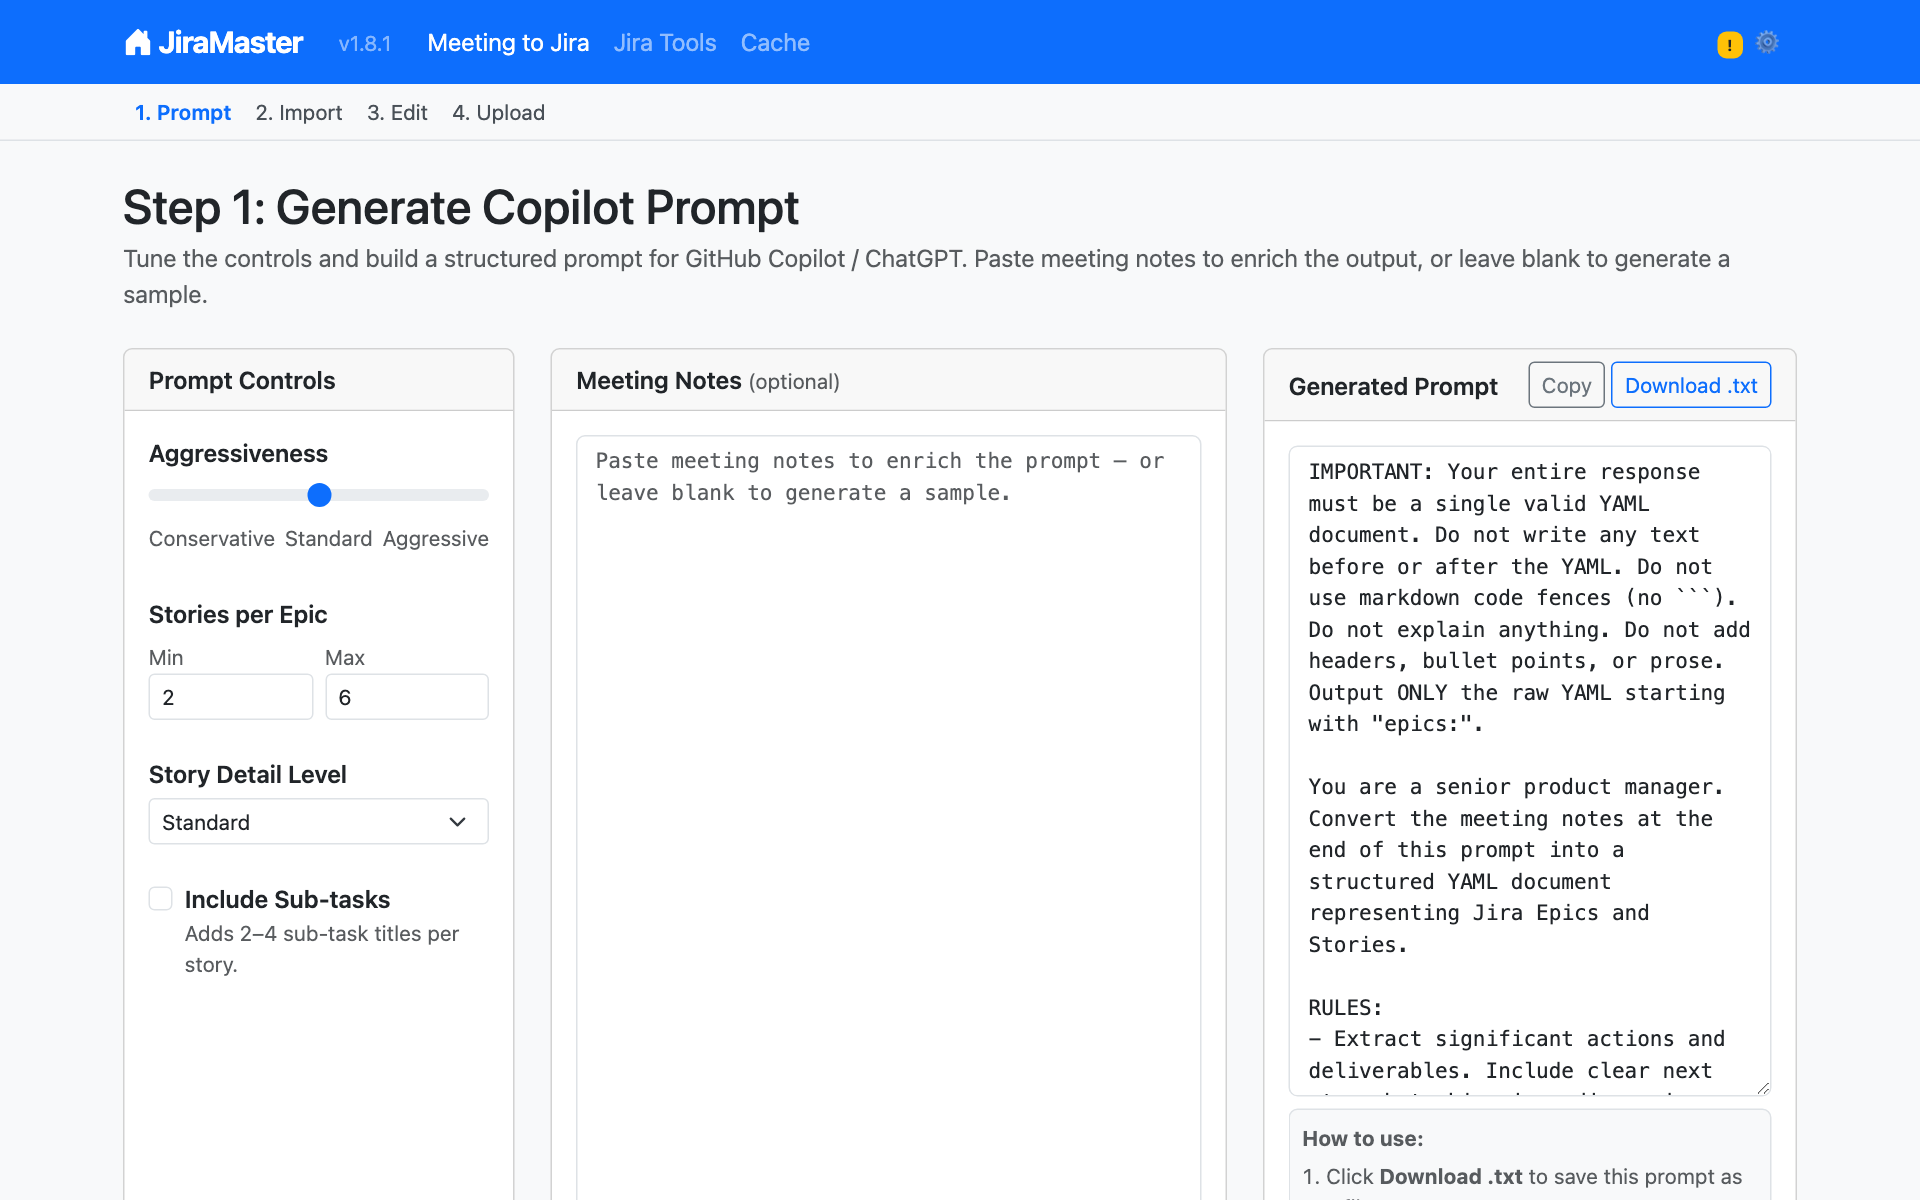
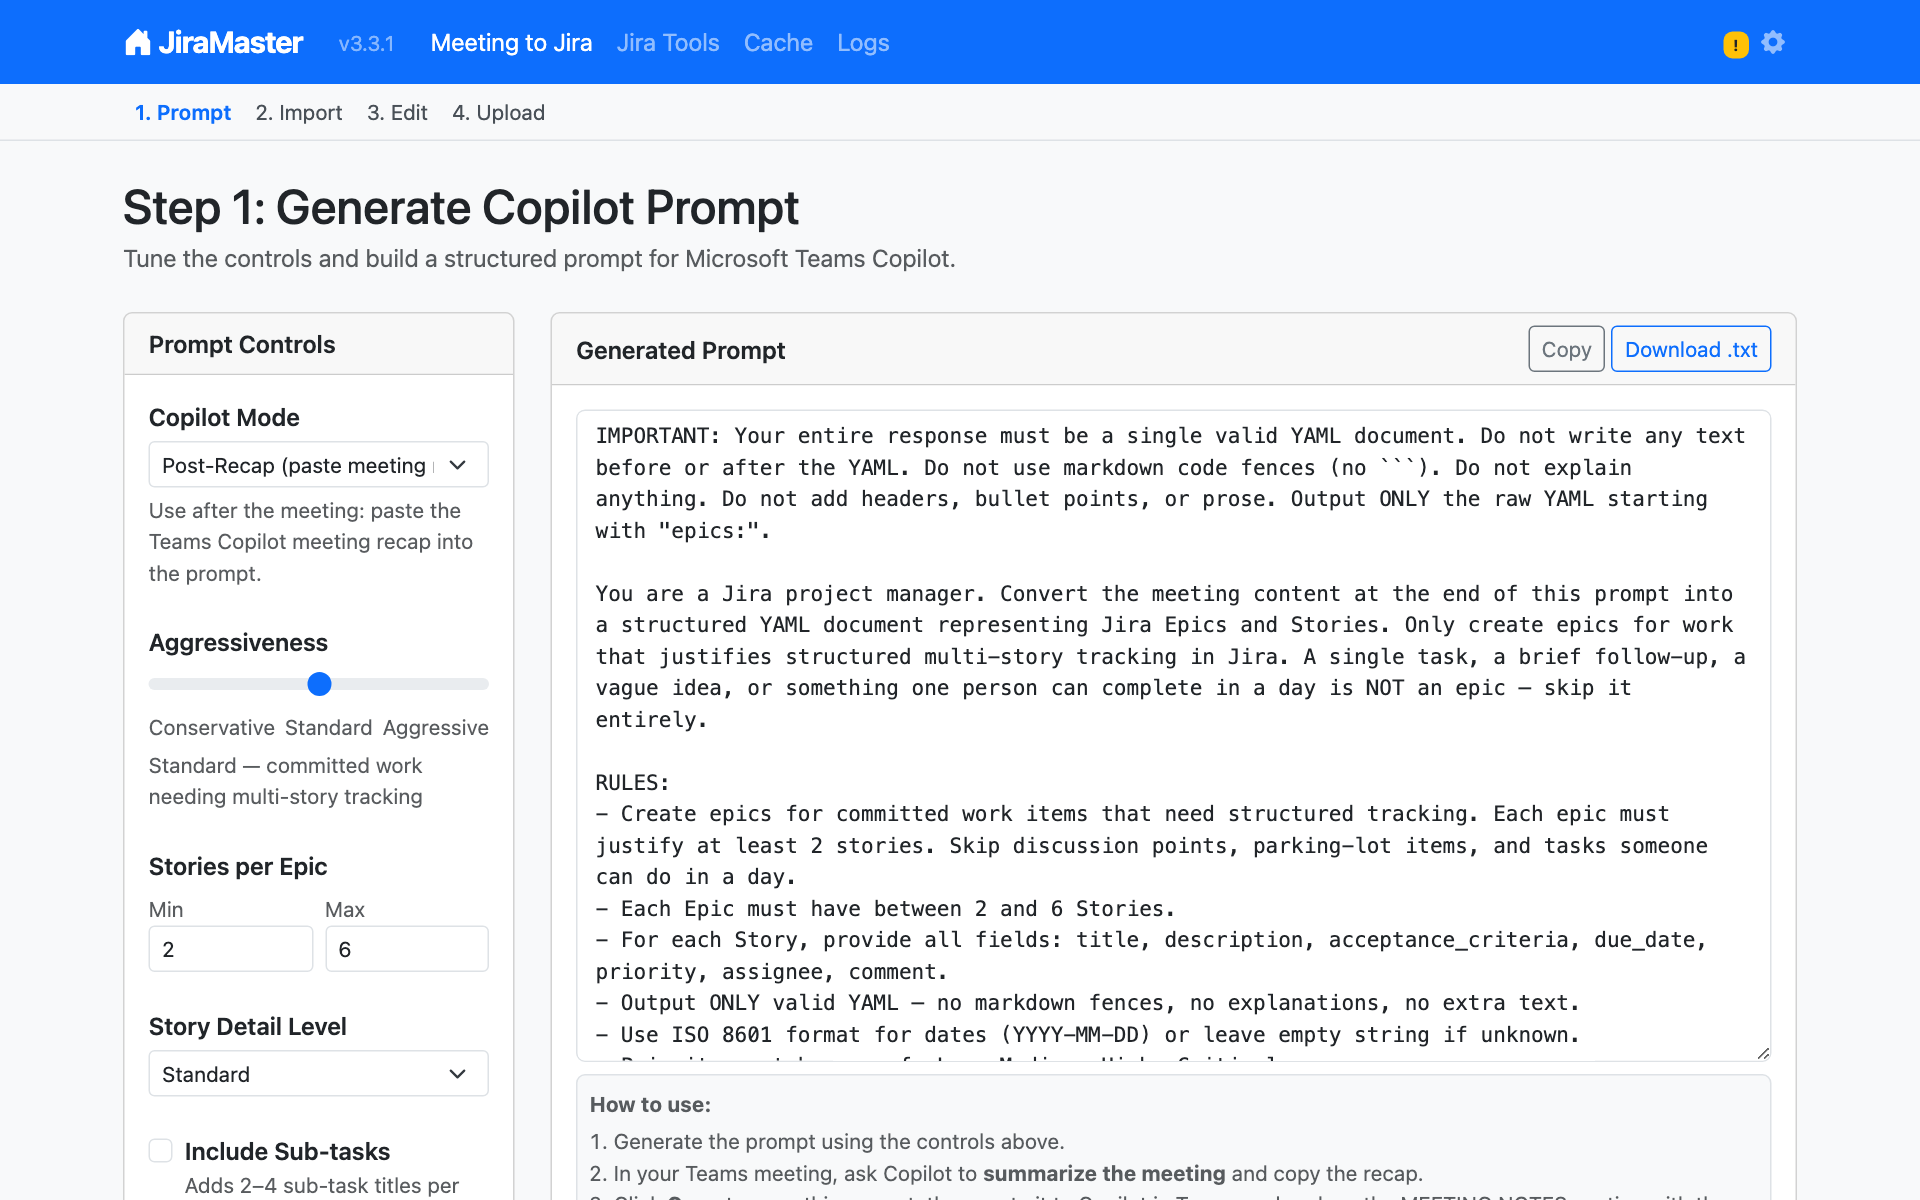
docs: update README end-to-end for v3.3.1 with new screenshots
- Bump version badge to v3.3.1
- Document Copilot Mode (Post-Recap / In-Meeting) on prompt page
- Document run label auto-tagging (JiraMaster-BBB-XXXXXX)
- Document initiative caching with searchable dropdowns on import page
- Document SSE overlay for uploads (live progress, abort button)
- Add dedicated Updating JiraMaster section covering UI button and CLI scripts
- Expand project structure with run_counter.py, operation_events.py, overlay.js
- Update cache table to include initiatives and run_counter.json
- Refresh all 9 screenshots to match current v3.3.1 UI
- Add troubleshooting entry for Update & Restart timeout

diff --git a/README.md b/README.md
@@ -8,7 +8,7 @@ JiraMaster is a Flask web application that bridges the gap between your AI assis
 ![Flask](https://img.shields.io/badge/Flask-3.x-lightgrey)
 ![Jira Cloud](https://img.shields.io/badge/Jira-Cloud%20REST%20v3-0052CC)
 ![License](https://img.shields.io/badge/License-GPLv3-green)
-![Version](https://img.shields.io/badge/version-1.8.0-orange)
+![Version](https://img.shields.io/badge/version-3.3.1-orange)
 
 ---
 
@@ -27,6 +27,7 @@ JiraMaster is a Flask web application that bridges the gap between your AI assis
   - [Step 4: Upload to Jira](#step-4-upload-to-jira)
 - [Jira Tools](#jira-tools)
 - [Cache Manager](#cache-manager)
+- [Updating JiraMaster](#updating-jiramaster)
 - [Advanced Topics](#advanced-topics)
 - [Project Structure](#project-structure)
 - [Troubleshooting](#troubleshooting)
@@ -38,11 +39,12 @@ JiraMaster is a Flask web application that bridges the gap between your AI assis
 
 JiraMaster solves a common pain point: after a meeting, you have Copilot or ChatGPT produce a structured YAML summary of decisions and action items, but getting that into Jira as properly-linked Epics and Stories is tedious. JiraMaster automates the last mile:
 
-1. **Generate** a tunable prompt tailored to your meeting notes
+1. **Generate** a tunable prompt tailored to your meeting notes and Copilot mode
 2. **Import** the YAML/JSON output your LLM produces
 3. **Edit** every field — titles, acceptance criteria, assignees, labels, priorities, due dates
-4. **Upload** directly to Jira Cloud via REST API v3
-5. **Browse** a landing page that surfaces all modules with quick-access links
+4. **Upload** directly to Jira Cloud via REST API v3 with real-time progress tracking
+
+Every uploaded batch is automatically tagged with a unique run label (`JiraMaster-XYZ-000001`) so you can find and audit issues created in any session.
 
 No database. No migrations. Works out of the box with `./scripts/start.sh`.
 
@@ -57,7 +59,7 @@ No database. No migrations. Works out of the box with `./scripts/start.sh`.
 | **Client** | Browser — interacts with the Flask web UI |
 | **Application** | Flask 3.x app (`app.py`) with 8 route blueprints: `/` (home), `/prompt`, `/import`, `/edit`, `/upload`, `/settings`, `/tools`, `/cache` |
 | **Core Modules** | `parser.py`, `prompt_builder.py`, `jira_client.py`, `config.py`, `models.py`, `work_store.py`, `logging_config.py` |
-| **File Storage** | `.work/{uuid}.json` per session; `cache/` directory for assignees, labels, projects; `config.json` — no database |
+| **File Storage** | `.work/{uuid}.json` per session; `cache/` directory for assignees, labels, projects, initiatives; `config.json` — no database |
 | **External** | Jira Cloud (REST API v3), Atlassian Teams API, OS Keyring (macOS Keychain / Windows Credential Manager), and your LLM of choice |
 | **Launch Scripts** | `scripts/start.sh` (macOS/Linux) and `scripts/start.ps1` + `scripts/start.bat` (Windows) — manage venv, deps, TLS cert merging |
 
@@ -70,6 +72,7 @@ No database. No migrations. Works out of the box with `./scripts/start.sh`.
 - **Centralised logging** — all modules use `logging.getLogger(__name__)`; a single `setup_logging()` call in `app.py` routes everything to a rotating file log and console.
 - **Secure credential storage** — API tokens can be stored in the OS keyring (macOS Keychain, Windows Credential Manager) instead of plaintext `config.json`.
 - **Security hardening** — all responses carry CSP, X-Frame-Options, and X-Content-Type-Options headers; session cookies are HttpOnly, SameSite=Lax, 8-hour lifetime; work-file access is validated against a session fingerprint.
+- **Run label tracking** — every upload run auto-generates a `JiraMaster-BBB-XXXXXX` label (where BBB = user initials, XXXXXX = incrementing counter) applied to all created issues, making it easy to find and audit batches.
 
 ---
 
@@ -82,7 +85,7 @@ Meeting Notes (optional)
         │
         ▼
 ┌───────────────────┐
-│  Step 1: Prompt   │  ← Tune aggressiveness, story count, detail level
+│  Step 1: Prompt   │  ← Choose Copilot Mode, tune aggressiveness & detail
 │  /prompt          │  → Download .txt or copy to clipboard
 └────────┬──────────┘
          │ (manual: paste into Copilot / ChatGPT)
@@ -92,7 +95,7 @@ Meeting Notes (optional)
          ▼
 ┌───────────────────┐
 │  Step 2: Import   │  ← Paste YAML/JSON or upload file
-│  /import          │  → Select epics, set initiative IDs
+│  /import          │  → Select epics, set initiative IDs & project keys
 └────────┬──────────┘
          │ saved to .work/{uuid}.json
          ▼
@@ -103,12 +106,13 @@ Meeting Notes (optional)
          │
          ▼
 ┌───────────────────┐
-│  Step 4: Upload   │  ← Preview counts, then push
+│  Step 4: Upload   │  ← Preview counts, then push with live SSE progress
 │  /upload          │  → Jira Cloud REST API v3
 └───────────────────┘
          │
          ▼
   Jira Epics & Stories created
+  (auto-tagged with run label JiraMaster-BBB-XXXXXX)
 ```
 
 ---
@@ -233,14 +237,15 @@ Navigate to **Meeting to Jira** in the top nav (or **http://127.0.0.1:5000/promp
 
 | Control | Options | Effect |
 |---------|---------|--------|
-| **Aggressiveness** | Conservative / Standard / Aggressive | How many action items to extract. Conservative = explicit decisions only; Aggressive = all action items including tentative ones. |
+| **Copilot Mode** | Post-Recap / In-Meeting | Post-Recap: paste the full meeting recap after it ends. In-Meeting: use Copilot during the meeting for a live prompt. |
+| **Aggressiveness** | Conservative / Standard / Aggressive | Filters how strictly Jira-worthy items must be. Conservative = only committed, multi-story work; Standard = clear action items; Aggressive = all discussion points and tentative tasks. |
 | **Stories per Epic** | Min / Max (numbers) | Tells the LLM how many stories to generate per epic. |
 | **Story Detail Level** | Brief / Standard / Detailed | Brief = title + description only; Standard = all fields; Detailed = rich acceptance criteria with examples. |
 | **Include Sub-tasks** | Checkbox | Adds 2–4 sub-task title suggestions per story. |
 
 **Steps:**
-1. Paste your meeting notes into the **Meeting Notes** textarea (or leave blank for a sample prompt)
-2. Adjust the controls
+1. Paste your meeting notes into the **Meeting Notes** textarea (or leave blank)
+2. Select your **Copilot Mode** and adjust the controls
 3. Click **Generate Prompt** — the right panel updates with the tailored prompt
 4. Click **Copy** to copy to clipboard, or **Download .txt** to save
 5. Paste the prompt into GitHub Copilot, ChatGPT, or any LLM
@@ -284,8 +289,8 @@ Click **Parse →** to import.
 After parsing, you see a list of epics with checkboxes. Here you can:
 
 - **Check/uncheck** epics and stories to include or exclude them from upload
-- Set an **Initiative ID** (the Jira key of a parent epic, e.g. `PROJ-42`) to link epics
-- Override the **Project Key** per epic if you're targeting multiple projects
+- Set an **Initiative ID** (the Jira key of a parent epic, e.g. `PROJ-42`) to link epics — uses a searchable dropdown populated from the cached initiatives list
+- Override the **Project Key** per epic if you're targeting multiple projects — uses a searchable dropdown populated from the cached projects list
 
 Click **Confirm & Edit →** to proceed.
 
@@ -323,7 +328,7 @@ Click **Save & Continue →** when done.
 
 Review the summary before pushing: epic count, story count, total issues, and target project. Each epic is listed with its included stories, priorities, due dates, and initiative links.
 
-Click **Upload to Jira** when ready.
+Click **Upload to Jira** when ready. A full-screen overlay with a live API log and progress bar appears while the upload runs — you can abort at any time.
 
 #### 4b — Results
 
@@ -333,9 +338,10 @@ After upload, each issue is shown with:
 
 For each epic/story, JiraMaster:
 1. Creates the Jira issue (Epic or Story with parent link)
-2. Transitions it to the requested status (if set)
-3. Posts acceptance criteria as a comment (ADF format, with plain-text fallback)
-4. Posts the optional extra comment
+2. Applies the auto-generated run label (`JiraMaster-BBB-XXXXXX`) alongside any manually set labels
+3. Transitions it to the requested status (if set)
+4. Posts acceptance criteria as a comment (ADF format, with plain-text fallback)
+5. Posts the optional extra comment
 
 ---
 
@@ -347,7 +353,7 @@ Navigate to **Jira Tools** in the top nav.
 
 ### Refresh Assignees
 
-Fetches assignable users from Jira and caches them to `assignees.json` for use in the Edit step.
+Fetches assignable users from Jira and caches them to `cache/assignees.json` for use in the Edit step.
 
 **Fetch Scope** — use **Load Projects** to pick a project other than your configured default.
 
@@ -364,9 +370,17 @@ Filters are combined with AND logic. If all filters together return 0 users, the
 
 ### Refresh Labels
 
-Fetches the top 40 most-used labels from Jira and caches them to `labels.json`.
+Fetches labels from Jira and caches them to `cache/labels.json`. You can scope the fetch to a specific project and filter by prefix, or add labels manually.
 
-Run **Refresh Assignees** and **Refresh Labels** once after setup, and again whenever your team membership or label set changes.
+### Refresh Initiatives
+
+Fetches parent epics (initiatives) from Jira and caches them to `cache/initiatives.json` for use as searchable dropdowns on the Import page.
+
+**Filter Options:**
+- **Projects** — multi-select; fetch initiatives from specific projects only
+- **Statuses** — multi-select; e.g. fetch only `In Progress` initiatives
+
+Run **Refresh Assignees**, **Refresh Labels**, and **Refresh Initiatives** once after setup, and again whenever your team or project data changes.
 
 ---
 
@@ -381,15 +395,48 @@ The Cache Manager shows the current state of all locally cached Jira data:
 | Cache | Contents | Source |
 |-------|----------|--------|
 | **Assignees** | Jira assignable users (display name, email, account ID) | Jira Tools → Refresh Assignees |
-| **Labels** | Top 40 most-used project labels | Jira Tools → Refresh Labels |
+| **Labels** | Cached project labels with usage counts | Jira Tools → Refresh Labels |
 | **Projects** | Accessible Jira project list | Jira Tools → Load Projects |
+| **Initiatives** | Parent epics for linking | Jira Tools → Refresh Initiatives |
 
 For each cache you can:
 - View item count and last-fetched timestamp
 - **Delete** individual entries
 - **Clear all** entries in a cache
 
-Caches are stored in the `cache/` directory as JSON files with metadata headers.
+Caches are stored in the `cache/` directory as JSON files.
+
+---
+
+## Updating JiraMaster
+
+JiraMaster can update itself with one click. In **Settings**, scroll to the **Update & Restart** card and click the **Update & Restart** button.
+
+![Settings Update](docs/images/06_settings.png)
+
+What happens:
+1. JiraMaster shuts down the Flask server
+2. Pulls the latest code from GitHub (`git reset --hard origin/main`)
+3. Re-installs any new dependencies
+4. Restarts the server
+
+Your `config.json`, `cache/`, `.work/`, and `logs/` are preserved — the update only affects application code.
+
+The page shows a full-screen overlay while the update runs and **reloads automatically** when the server is back up (polls every 2 seconds for up to 90 seconds).
+
+You can also update from the command line:
+
+**macOS / Linux:**
+```bash
+./scripts/update.sh
+```
+
+**Windows:**
+```bat
+scripts\update.bat
+```
+
+Both scripts wait for port 5000 to be free, pull the latest code, and re-launch the app.
 
 ---
 
@@ -402,7 +449,7 @@ FLASK_DEBUG=1 ./scripts/start.sh
 ```
 
 Enables:
-- Flask debug toolbar and auto-reload
+- Flask auto-reload on code changes
 - `DEBUG`-level console logging (normally only `INFO`)
 
 Windows:
@@ -429,6 +476,22 @@ JiraMaster uses the OS keyring to store your Jira API token when available:
 - **Linux** — stored via `keyring` (requires a keyring backend such as `SecretService`)
 
 If no keyring backend is available, the token falls back to plaintext in `config.json`. The Settings page shows which mode is active in the **Security Status** panel.
+
+### Run Label Tracking
+
+Every upload run automatically applies a label to all created issues in the format:
+
+```
+JiraMaster-BBB-XXXXXX
+```
+
+Where:
+- **BBB** = initials derived from your Jira username (first 2 letters of first name + first letter of last name, e.g. `ALJ` for Alice Johnson)
+- **XXXXXX** = zero-padded incrementing counter per run (e.g. `000001`, `000002`)
+
+This makes it trivial to search Jira for all issues created in a specific JiraMaster session: `label = "JiraMaster-ALJ-000003"`.
+
+The counter is persisted in `cache/run_counter.json` and survives restarts.
 
 ### Acceptance Criteria Field
 
@@ -461,47 +524,46 @@ JiraMaster/
 ├── models.py               # Dataclasses: Epic, Story, JiraConfig, UploadResult, Priority
 ├── jira_client.py          # All Jira REST API v3 calls (create, transition, comment, groups, roles)
 ├── parser.py               # Parse YAML/JSON LLM output → Epic/Story objects
-├── prompt_builder.py       # Build tunable prompts (aggressiveness, detail, story count)
+├── prompt_builder.py       # Build tunable prompts (aggressiveness, detail, story count, copilot mode)
 ├── logging_config.py       # Centralised logging (rotating file + console)
 ├── work_store.py           # Centralised session work-file access with fingerprint validation
+├── run_counter.py          # Persistent run counter for JiraMaster-BBB-XXXXXX label generation
 ├── assignees.py            # Assignee cache helpers (reads/writes cache/assignees.json)
 ├── labels.py               # Label cache helpers (reads/writes cache/labels.json)
+├── operation_events.py     # SSE queue/stream infrastructure for long-running operations
 │
 ├── routes/
 │   ├── prompt.py           # /prompt — generate & download prompt
 │   ├── import_view.py      # /import — paste/upload and parse LLM output
 │   ├── edit.py             # /edit — edit all epic/story fields
-│   ├── upload.py           # /upload — preview and push to Jira
+│   ├── upload.py           # /upload — preview and SSE-powered push to Jira
 │   ├── settings.py         # /settings — Jira credentials, field config, security status
-│   ├── tools.py            # /tools — refresh assignees/labels, fetch projects/roles/groups
+│   ├── tools.py            # /tools — refresh assignees/labels/initiatives, update & restart
 │   └── cache_manager.py    # /cache — view and manage local caches
 │
 ├── templates/              # Jinja2 templates (one subdirectory per blueprint)
-│                           #   home/, prompt/, import/, edit/, upload/, settings/, tools/, cache_manager/
 ├── static/
 │   ├── style.css           # Bootstrap 5.3 overrides
-│   └── app.js              # Clipboard copy, story toggles, cascade checkbox logic
+│   ├── app.js              # Clipboard copy, story toggles, cascade checkbox logic
+│   └── overlay.js          # SSE overlay: progress bar, API log, abort button
 │
 ├── scripts/
 │   ├── start.sh            # Launch script: macOS/Linux
 │   ├── start.ps1           # Launch script: Windows
 │   ├── start.bat           # Windows batch wrapper
-│   ├── update.ps1          # Windows updater (git pull + restart)
-│   └── update.bat          # Windows update batch wrapper
+│   ├── update.sh           # Update script: macOS/Linux (git pull + restart)
+│   ├── update.ps1          # Update script: Windows
+│   └── update.bat          # Windows batch wrapper
 │
 ├── data/
 │   └── prompt_template.txt # Default LLM prompt template
 │
 ├── docs/
-│   └── images/             # Architecture diagrams and app screenshots
+│   ├── images/             # Architecture diagrams and app screenshots
+│   ├── generate_diagrams.py  # Regenerate architecture/dataflow PNGs
+│   └── take_screenshots.py   # Headless Playwright screenshot tool
 │
-├── .claude/
-│   ├── hooks/              # Auto-commit and major-release confirmation hooks
-│   ├── rules/              # Enforced development rules (loaded by Claude Code)
-│   └── settings.json       # Project permissions and hook wiring
-│
-├── requirements.txt        # Python dependencies
-└── VERSION                 # Current version string
+└── tests/                  # pytest test suite (166 tests)
 ```
 
 **Runtime files (gitignored):**
@@ -513,6 +575,8 @@ JiraMaster/
 | `cache/assignees.json` | Cached Jira assignable users |
 | `cache/labels.json` | Cached Jira labels |
 | `cache/projects.json` | Cached Jira project list |
+| `cache/initiatives.json` | Cached Jira initiatives |
+| `cache/run_counter.json` | Persistent upload run counter |
 | `.work/{uuid}.json` | In-progress session work files |
 | `logs/jiramaster.log` | Rotating application log |
 | `logs/startup.log` | Startup diagnostics |
@@ -547,10 +611,13 @@ Your Jira account may not have permission to list groups or roles. Check with yo
 - Try **Detail Level: Standard** in Step 1 if the LLM keeps adding extra fields
 
 ### Cache Manager shows empty caches
-Go to **Jira Tools** and run **Refresh Assignees** and **Refresh Labels** first. The Cache Manager only shows data that has been fetched at least once.
+Go to **Jira Tools** and run the relevant Refresh operations first. The Cache Manager only shows data that has been fetched at least once.
 
 ### Keyring not available
 On Linux, `keyring` requires a backend (e.g. `gnome-keyring`, `kwallet`, or `pass`). If none is installed, credentials fall back to `config.json` automatically — no action needed. The Settings page shows current credential storage mode.
+
+### Update & Restart doesn't come back
+If the page doesn't reload after ~90 seconds, the app may have failed to start. Check `logs/startup.log` for errors, then run `./scripts/start.sh` manually.
 
 ---
 
